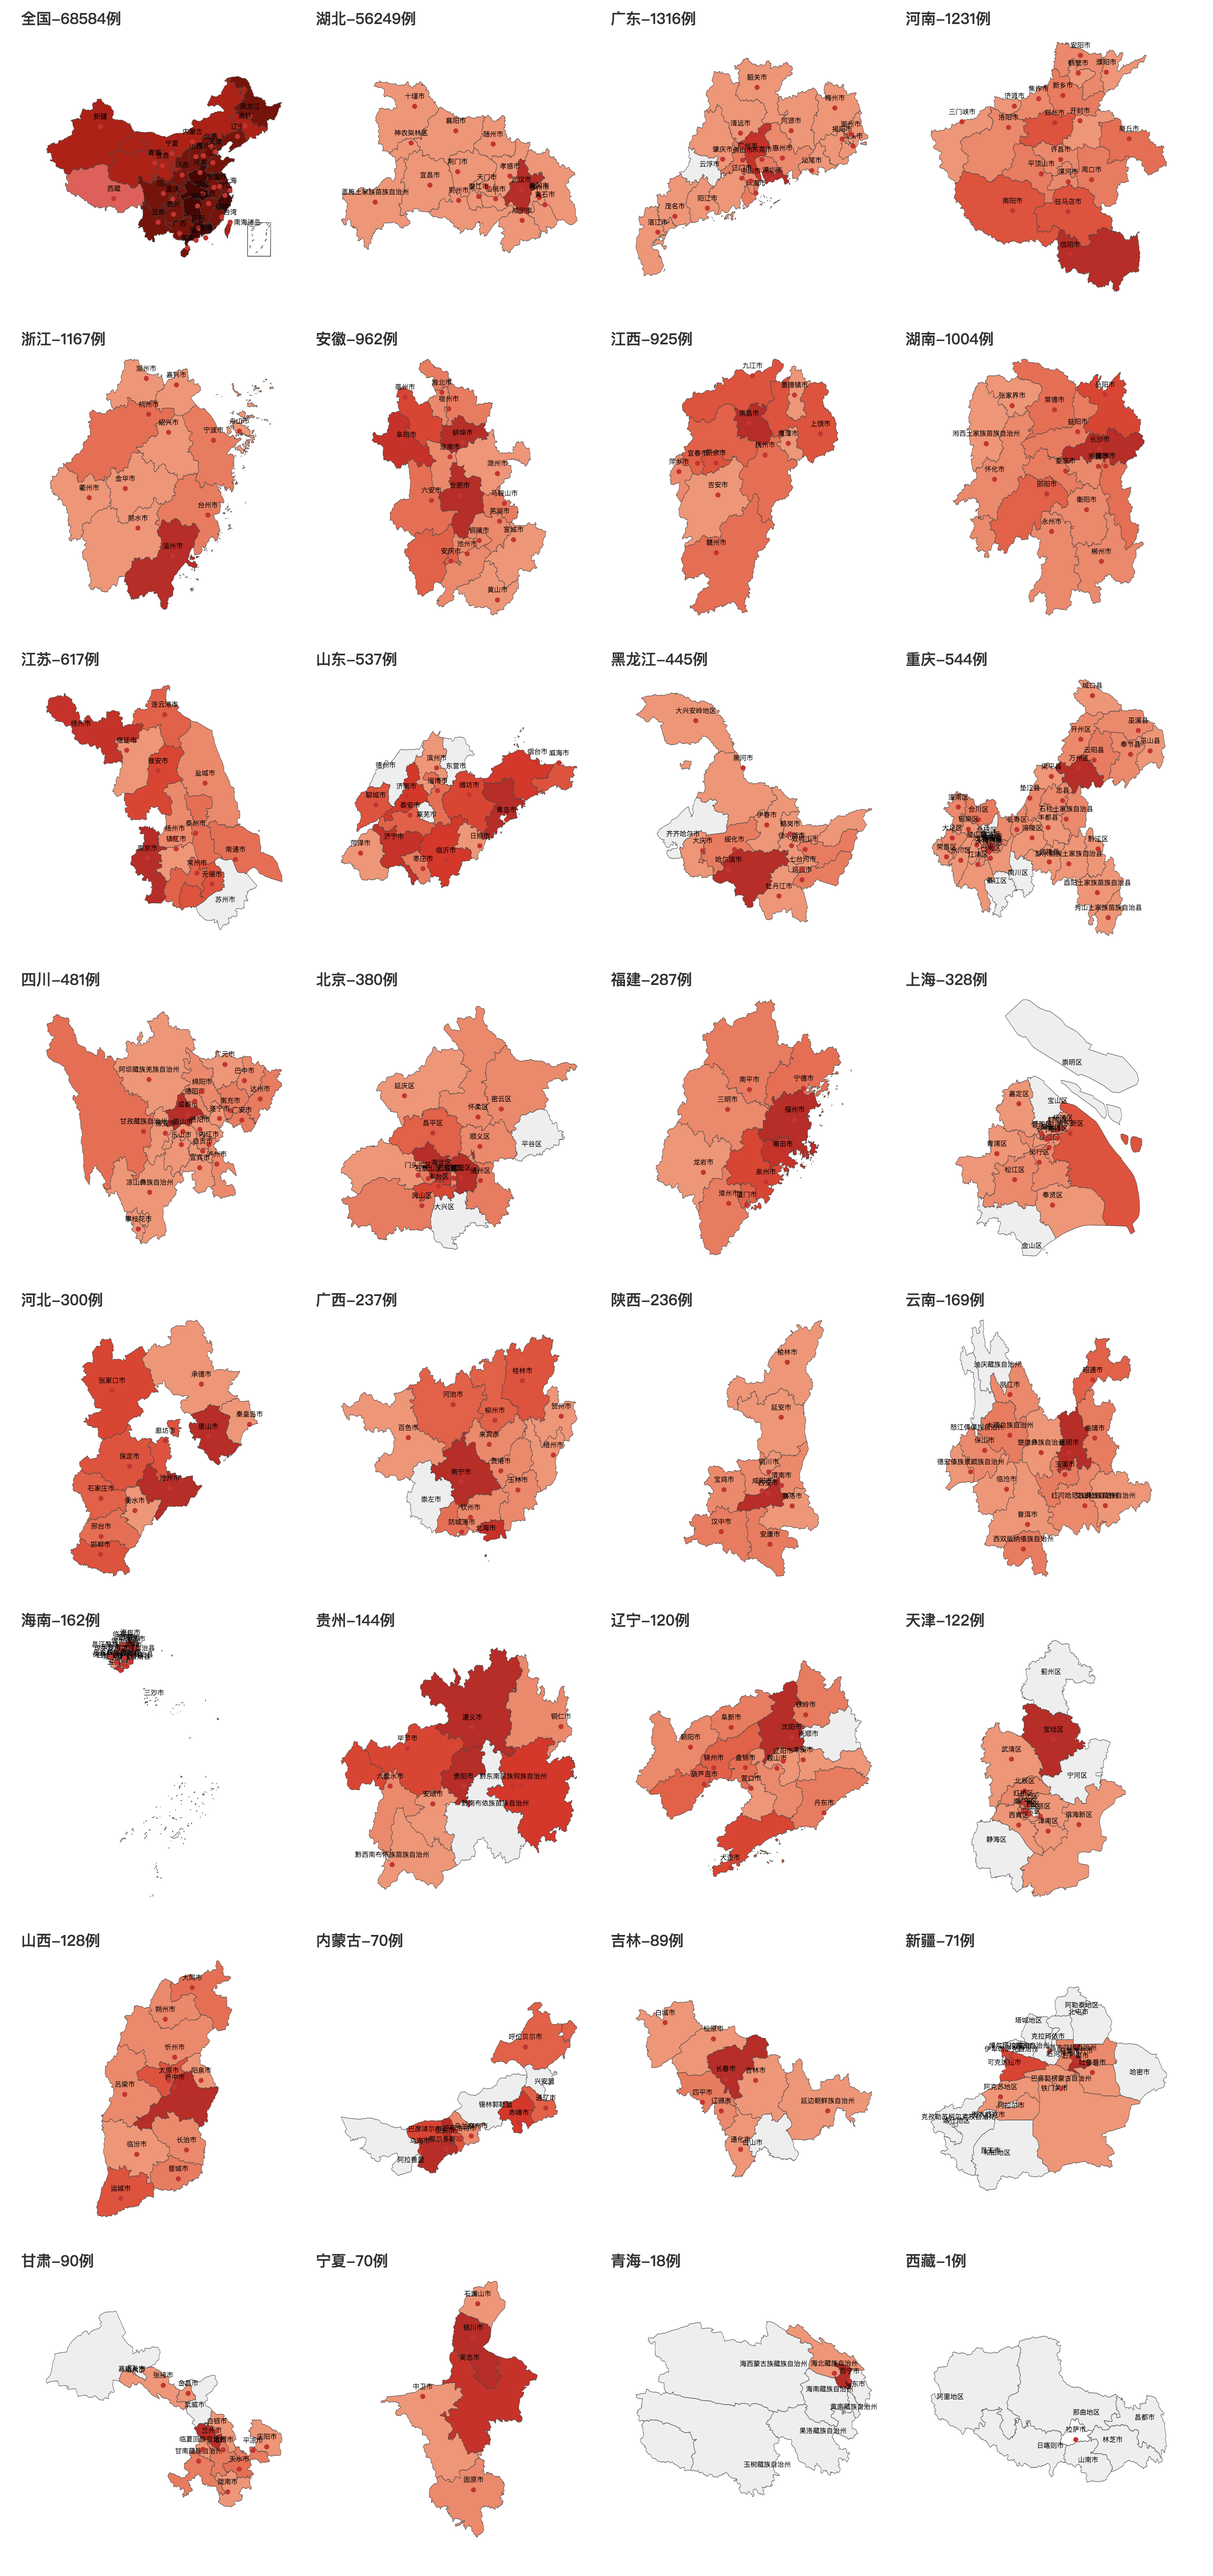
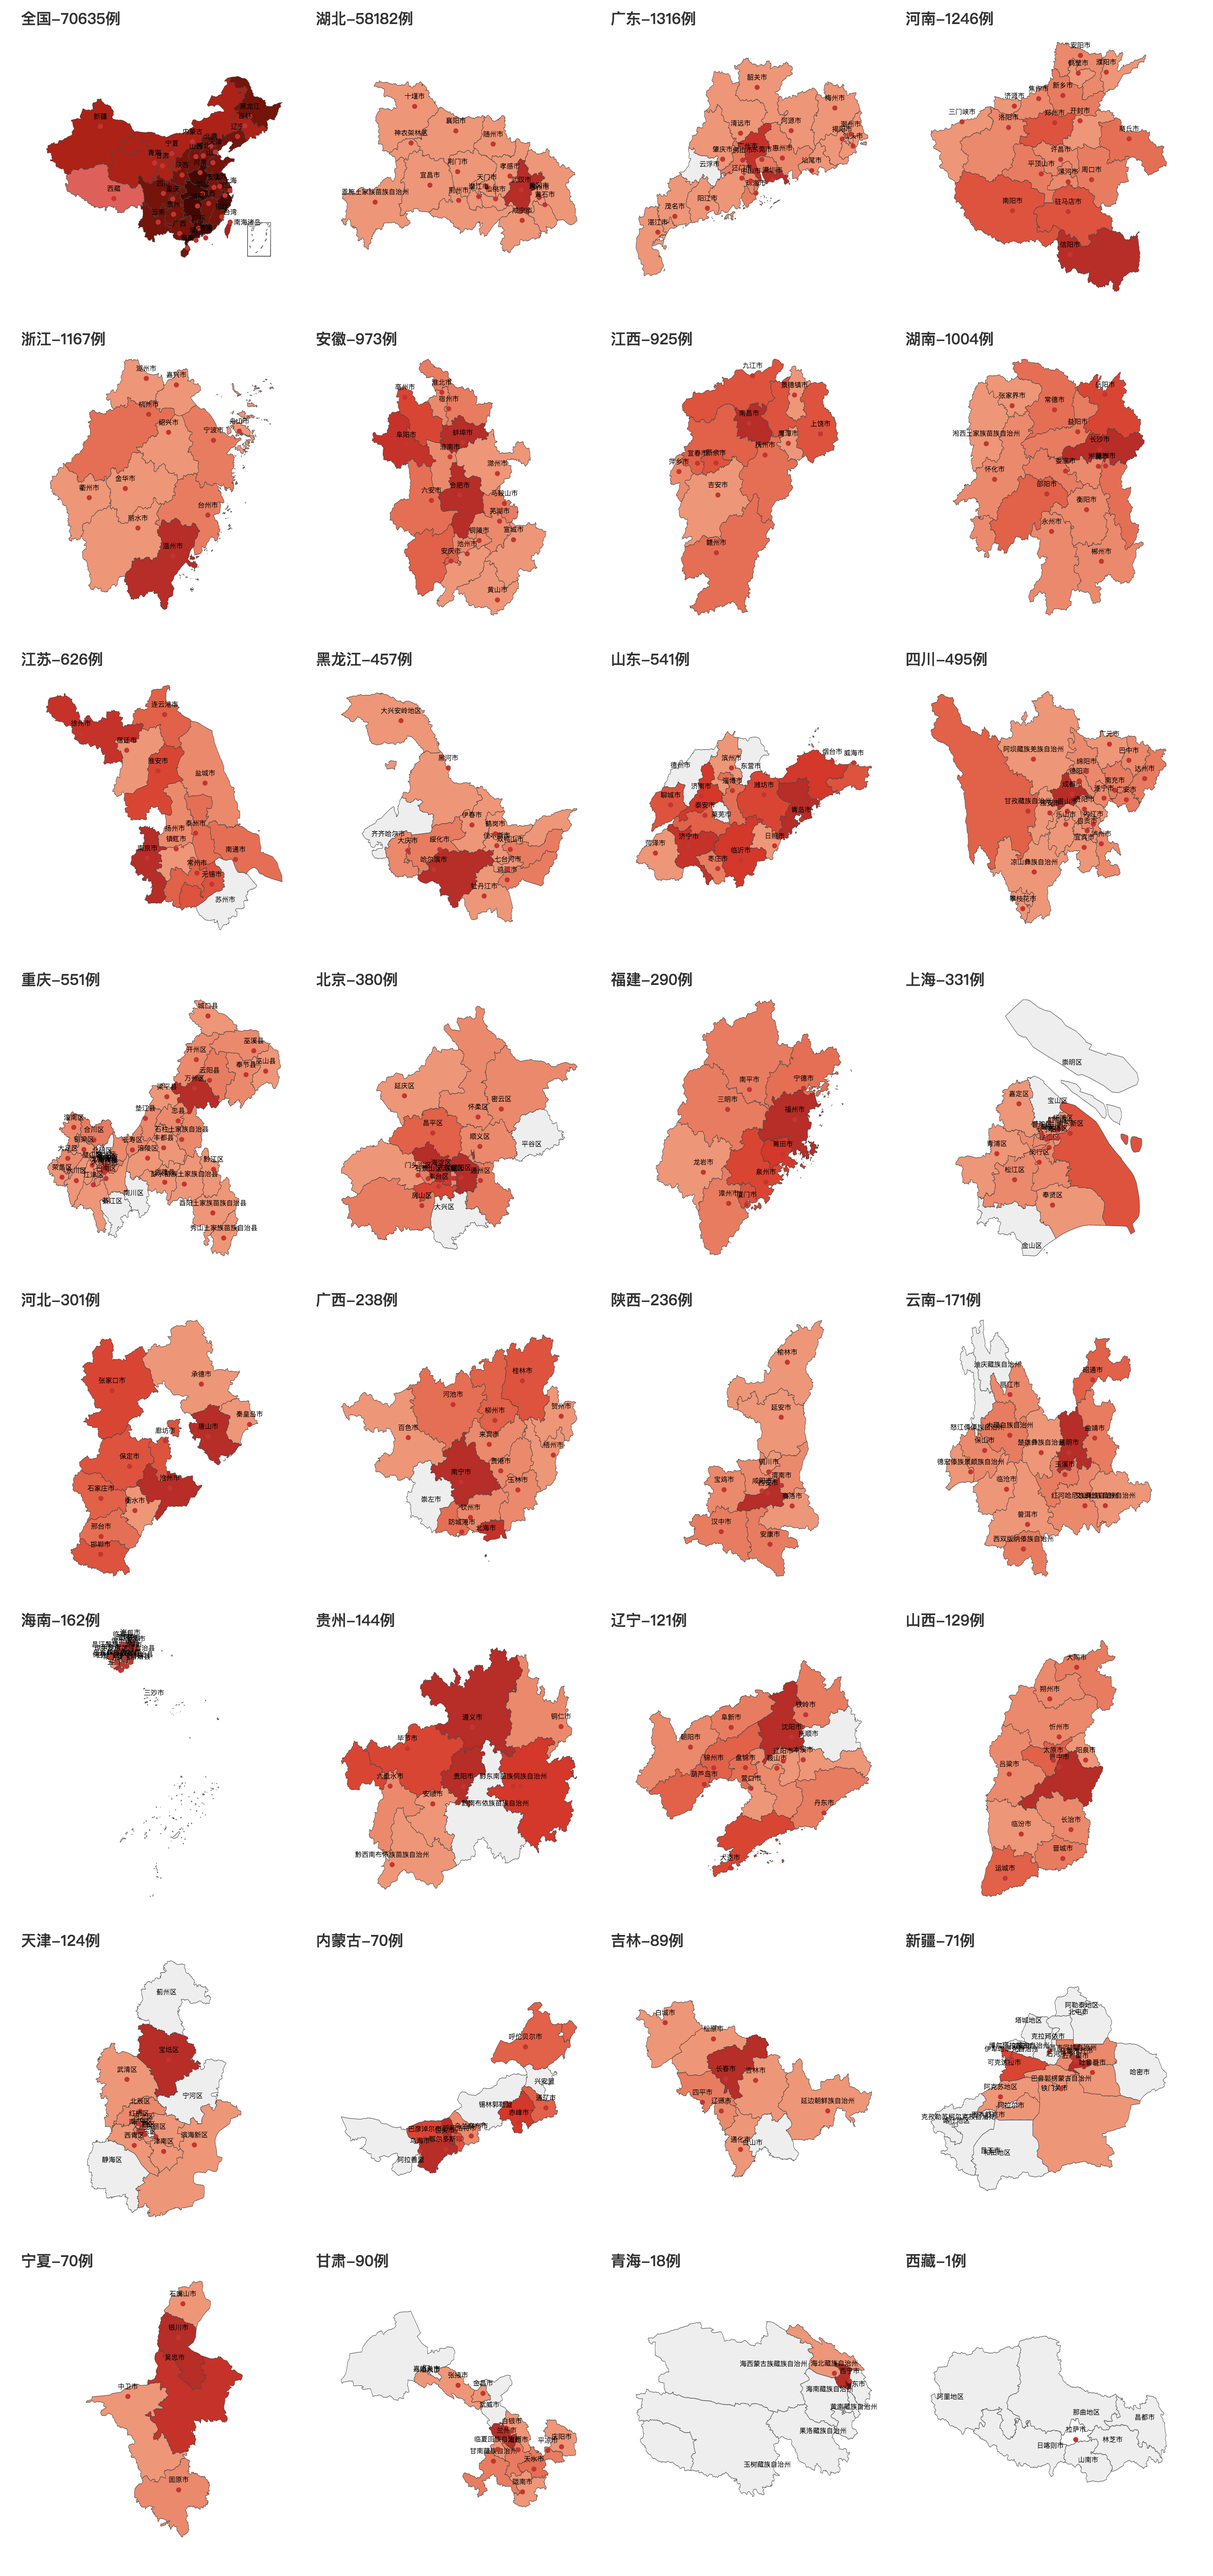
update result

diff --git a/main.py b/main.py
@@ -97,9 +97,9 @@ def draw_tendency(month, day):
     dates = ['1-%d' % i for i in range(22, 31 + 1)]
     dates.extend(['2-%02d' % i for i in range(1, day)])
     v0 = [131, 259, 444, 688, 769, 1771, 1459, 1737, 1982, 2102, 2590, 2829, 3235, 3887, 3143, 3399, 2656, 3062, 2478,
-          2015, 15152, 5090, 2641, 2009]
+          2015, 15152, 5090, 2641, 2009, 2051]
     v1 = [69, 105, 180, 323, 371, 1291, 840, 1032, 1220, 1347, 1921, 2103, 2345, 3156, 2447, 2841, 2147, 2618, 2097,
-          1638, 14840, 4823, 2420, 1843]
+          1638, 14840, 4823, 2420, 1843, 1933]
     v2 = [v0[i] - v1[i] for i in range(len(v0))]
     print(v2)
     c = (
@@ -261,7 +261,7 @@ def draw_multiple_pie(month, day):
 
 
 if __name__ == '__main__':
-    m, d = 2, 16
+    m, d = 2, 17
     get_html(m, d)
     draw_tendency(m, d)
     draw_multiple_pie(m, d)

diff --git a/README.md b/README.md
@@ -20,6 +20,7 @@
 - 更新：2020.2.14 12:19 在新标准下，湖北省的新增病例相比起昨天大幅下降了，其他省份新增确诊持续减少。
 - 更新：2020.2.15 09:16 这几天的下降速度真的很喜人诶。
 - 更新：2020.2.16 10:16 湖北省新增病例连续3天下降，其他省份已经12连降。
+- 更新：2020.2.16 09:19
 
 # 全国/各省份疫情地图
 ![image](https://github.com/shadow12138/WuHanGanBaDei/blob/master/result/r1.png)
